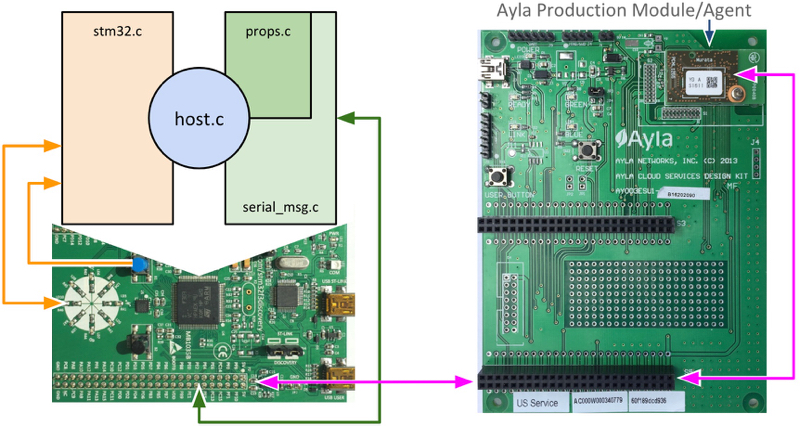
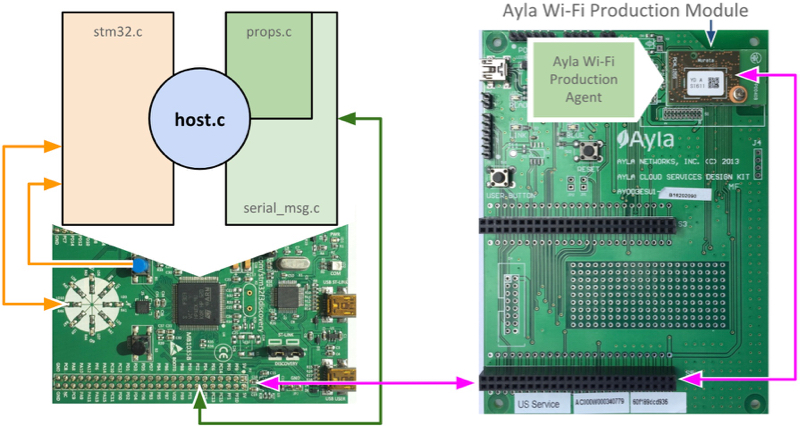
Creating first chapters for Ayla Device Kit Guide.

diff --git a/src/styles/style.css b/src/styles/style.css
@@ -93,9 +93,9 @@ a:hover {color: #0059b3;}
 
 #sidenav ul {padding-left: 0px; list-style-type: none;}
 
-#sidenav ul > li > ol {padding-left: 3px; list-style-type: "1";}
+#sidenav ul > li > ol {padding-left: 3px; /*list-style-type: "1";*/}
 #sidenav ul > li > span:hover {cursor: pointer;}
-#sidenav ul > li {margin-bottom: 12px;}
+#sidenav ul > li {margin-bottom: 9px;}
 #sidenav ul > li > ol > li {line-height: 1.8em;}
 
 #sidenav ul > li > a.active,
@@ -136,7 +136,7 @@ a:hover {color: #0059b3;}
 
 #content.home h3 {margin-top: 0px;}
 
-#content li {margin-bottom: 8px;}
+#content li {margin-bottom: 6px;}
 
 #content pre {
   background: #f2f2f2;
@@ -168,6 +168,8 @@ a:hover {color: #0059b3;}
 
 #content table .center {text-align: center;}
 
+#content .note {padding: 12px; margin: 24px 0px; background: linen;}
+
 /******************************************
  img
 ******************************************/
@@ -181,7 +183,7 @@ img.center {
 
 #content figure.figure {margin: 30px 0px;}
 
-#content img {margin-bottom: 0px;}
+#content div.image {margin: 30px 30px;}
 
 /******************************************
  media

diff --git a/layouts/glossary.html b/layouts/glossary.html
@@ -42,6 +42,7 @@
 <li id="glossary-base-type"><a href="/content/glossary/base-type.html">Base Type</a></li> 
 <li id="glossary-cloud"><a href="/content/glossary/cloud.html">Cloud</a></li>
 <li id="glossary-configuration"><a href="/content/glossary/configuration.html">Configuration</a></li>
+<li id="glossary-connectivity"><a href="/content/glossary/connectivity.html">Connectivity</a></li>
 <li id="glossary-datapoint"><a href="/content/glossary/datapoint.html">Datapoint</a></li>
 <li id="glossary-datapoint-echo"><a href="/content/glossary/datapoint-echo.html">Datapoint Echo</a></li>
 <li id="glossary-datastream"><a href="/content/glossary/datastream.html">DataStream</a></li>

diff --git a/layouts/partials/devices_sn.html b/layouts/partials/devices_sn.html
@@ -2,7 +2,8 @@
 <ul>
 <li><span>Ayla Design Kit Guide</span>
 <ol style="display:{{adk}};">
-<li id="devices-adk-overview"><a href="/content/devices/adk/overview.html">Overview</a></li>
+<li id="devices-adk-introduction"><a href="/content/devices/adk/introduction.html">Introduction</a></li>
+<li id="devices-adk-platform"><a href="/content/devices/adk/platform.html">Platform</a></li>
 <li id="devices-adk-setup"><a href="/content/devices/adk/setup.html">Setup</a></li>
 <li id="devices-adk-experiments"><a href="/content/devices/adk/experiments.html">Experiments</a></li>
 <li id="devices-adk-ide"><a href="/content/devices/adk/ide.html">IDE</a></li>

diff --git a/layouts/home.html b/layouts/home.html
@@ -41,7 +41,7 @@
 <div class="col-lg-6 col-md-6 col-sm-6 col-12">
 <h3>Feedback</h3>
 <p>Relevant comments and suggestion welcome.</p>
-<a href="https://github.com/MattAtAyla/ayla-core-content/issues"><img class="center" src="images/submit-ticket.gif" width="200"></a>
+<a href="https://github.com/MattAtAyla/ayla-core-content/issues/new"><img class="center" src="images/submit-ticket.gif" width="200"></a>
 </div>
 </div>
 </div>

diff --git a/src/content/about/index.md b/src/content/about/index.md
@@ -1,71 +1,5 @@
 ---
 title: About
 layout: about.html
-auth:
-    user: guest
-    pass: acc3000
 ---
 
-This proof-of-concept website demonstrates my belief that Ayla Networks should do the following:
-
-1. Focus on a single source of truth (this Ayla Core Content site) for information about Ayla technology.
-1. Implement it as a static website generated by [Metalsmith](http://www.metalsmith.io/) from [Markdown](https://github.github.com/gfm/) source files stored on [github](https://github.com/MattAtAyla/ayla-core-content).
-1. Tap the minds of in-house subject matter experts within natural workflows. 
-1. Establish an organizational structure and mindset around the Ayla Core Content site.
-
-## Focus on single source of truth
-
-Currently, Ayla employs one person to write and manage all product documentation. Ayla also squirrels away information in several places. A much more efficient approach is to establish one place for our guides, tutorials, references, definitions, product descriptions, diagrams, and videos, and design it so that all our experts can directly contribute to it without altering their everyday workflows.
-
-This single source of truth should be easily accessible, organized, simple, versioned, accurate, maintainable, searchable, current, concise, grammatically correct, non-redundant, uniform in style, driven by user needs, informed by user feedback, and unopposed. 
-
-All other information repositories should be deprecated including Ayla University which has the following negative impacts on the company:
-
-1. It guarantees that obsolete information will always be around to confuse our customers because it will always be unmaintainable and understaffed. A slide deck by itself is a challenge to maintain. Hundreds of slide decks are more of a challenge. Hundreds of slide decks wrapped in videos (or re-worked into Storyline technology) represent maintenance that Ayla will be unwilling to fund.
-
-1. It neither promotes nor assesses learning. Regarding the former, it is much less accessible than a simple static website. Regarding the latter, it is built on the false notion that clicks == learning, and it reinforces the delusion by requiring people to click, and then celebrating higher click counts. The promotion of learning and the assessment of learning are two different things. We should focus on the promotion of learning which starts with highly acccessible, simple, organized core content. If we need to prove to some authority that a person possesses certain Ayla knowledge and skills, we will do this with professionally designed and administered assessments. 
-
-1. It is a distraction. It drains resources away from the building of, and it diverts eyes away from the use of, core content. 
-
-## Implement a statically generated website from MD files on github
-
-Many companies use static-site generators to publish technical documentation (see [Particle](https://docs.particle.io/guide/getting-started/intro/photon/) and [Bootstrap](https://getbootstrap.com/docs/4.1/getting-started/introduction/)).  
-
-Metalsmith is one example of a static website generator. Essentially, it is a configurable data-transformation pipeline. It inputs files (e.g. Github Markdown and html templates), converts them to html, passes them through a series of [pluggable transformation modules](https://github.com/metalsmith/awesome-metalsmith/blob/master/PLUGINS.md), and outputs a static website (complete with html, css, js, and image files) which can be zipped into an archive file, uploaded to a web-hosting site, and deployed.
-
-## Tap SMEs within natural workflows
-
-One benefit of a statically generated website is that it can leverage source files (e.g. markdown) that are native to other systems. This means that engineers (who normally store markdown files on github under source control) can contribute directly to Ayla Core Content without changing normal routines, ultimately increasing productivity and accuracy. Markdown files look like this: 
-
-<pre style="font-size: 60%; width:750px; overflow:auto;">
-# Getting Started
-
-### CocoaPods
-Working with AMAP requires the use of [CocoaPods](https://cocoapods.org) 1.2.1 or higher for dependency management.
-
-If you do not already have [CocoaPods](https://cocoapods.org), you must install it first using Terminal: 
-
-```bash
-$ gem install cocoapods
-```
-
-Note: This version of AMAP now supports Cocoapods version 1.2.1 and above.
-
-```bash
-$ gem upgrade cocoapods
-```
-</pre>
-
-Another benefit is that statically generated websites are easily versioned. 
-
-## Organize around Ayla Core Content
-
-1. Establish a Department of Core Content, Training, and Certification. We will grow into the latter two.
-1. Appoint a Manager of Core Content, Training, and Certification reporting to a technical director invested in the success of the department.
-1. Create a github repo called ayla-core-content, and set it up like [this](https://github.com/MattAtAyla/ayla-core-content).
-1. Discuss (with respect to technical information) the balance between confidentiality and accessibility. Static sites are, for the most part, public.
-1. Establish a simple style guide. Users need to see both the markdown version and the html version of the guide.
-1. Discuss and establish a plan for organizing the site directory structure and data layout. 
-1. Define department job functions in terms of teaching style and data organization to engineers, and editing.
-1. Recruit SMEs to migrate data from nooks and cranies to the ayla-core-content repo.
-1. Explore and experiment with various Metalsmith data transformation modules. 

diff --git a/src/content/devices/adk/platform.md b/src/content/devices/adk/platform.md
@@ -1,0 +1,35 @@
+---
+title: Ayla Platform for Firmware Engineers
+layout: devices-adk.html
+---
+
+This chapter provides a view of the Ayla Platform from a firmware engineer's perspective. As stated, the Ayla Design Kit consists of a [STM32 Board](https://www.st.com/en/evaluation-tools/stm32f3discovery.html?sc=stm32f3discovery) representing your device, and an Ayla Board with an Ayla Wi-Fi Production Module affixed to provide cloud connectivity. It also includes a 5v USB power cable. The [Setup](/content/devices/adk/setup.html) chapter gives instructions for purchasing and registering the kit. Here is another view of the Discovery Kit:
+
+<div class="image"><img src="images/ayla-design-kit-cable.jpg" width=500></div>
+
+It's important to note that, in this guide, the STM32 board represents *any device* that you want to connect to the Ayla Cloud, any device with (1) a microcontroller (Host MCU) composed of a CPU, memory, and peripheral support functions, and (2) peripherals that send input to the MCU (e.g. Blue Button) and receive output from the MCU (e.g. LED Circle).
+
+<div class="image"><img src="images/stm32-mcu-peripherals.jpg" width=420></div>
+
+Pairing this device with an Ayla Wi-Fi Production Module is a good first step in connecting the device to the Ayla Cloud because the module runs a production-ready Ayla Software Agent designed to handle connectivity, security, and several other functions. But, pairing the device with the module is not enough. You also need to modify the application running on the Host MCU. This application is labeled host.c in the following diagram:
+
+<div class="image"><img src="images/ayla-design-kit-host-app.jpg" width=560></div>
+
+In fact, host.c is the only code you need to modify. The other three source files in the diagram, stm32.c, props.c, and serial_msg.c, are part of the Ayla host-based library. 
+The first, stm32.c, interfaces with the STM32 board, handling interrupts from the Blue Button, and writing/reading on and off states to/from the LED Circle. The other two, props.c and serial_msg.c, perform I/O via serial interface to the Ayla Production Module, the intermediary between host.c and the Ayla Cloud. 
+
+<div class="note">
+<p><strong>Note:</strong> Using an Ayla Production Module is just one way to connect a device to the Ayla Cloud. See the [Devices](/content/devices/) page for all connectivity solutions.</p>
+</div>
+
+The following diagram illustrates the Design Kit in the broader context of the Ayla Platform.
+
+<div class="image"><img src="images/ayla-platform.jpg" width=700></div>
+
+The Design Kit appears in the lower left of the diagram, with the STM32 board on the left connected via SPI or UART to the Ayla Production Module on the right. The module communicates with the Ayla Cloud via the Ayla Device Service API. The Ayla Cloud instantiates a user-defined template to create a digital twin of the real-world device. The red, blue, and green circles of the digital twin represent LEDs on the actual device, and the larger blue circle represents the Blue Button. Mobile and web apps built with libraries wrapping API calls to the Ayla Cloud Service RESTful API interact with the digital twin to query and control the device. The dotted line indicates that when an application and the device are connected to the same LAN, they can communicate directly. Finally, the Data Streaming Service (DSS) underscores the Ayla Cloud's ability to integrate with other business systems in real-time.
+
+Connecting a device to the Ayla Cloud benefits several stakeholders, and remote control is only one of the benefits. See the diagram below.
+
+<div class="image"><img src="images/ayla-platform-value.jpg" width=700></div>
+
+Depending on how consumer data is aggregated and analyzed, consumers, service technicians, retailers, and manufacturers can leverage insights to improve efficiencies and performance. 

diff --git a/src/content/devices/adk/setup.md b/src/content/devices/adk/setup.md
@@ -3,6 +3,37 @@ title: Setup
 layout: devices-adk.html
 ---
 
+This chapter shows you how to connect an off-the-shelf Ayla Design Kit to a default Ayla account. 
+
+Here are the specific goals of the chapter:
+
+<div class="image"><img src="images/sss.jpg" width=500></div>
+
+
+
+
+
+, taking into consideration that you may not have either yet, or the design kit you have is currently registered to another Ayla account, or the design kit you have is running incompatible agent and/or host firmware (from prior experimentation). In any case, by the end of this chapter you should have the following:
+
+1. A default Ayla account.
+1. An Ayla Design Kit with compatible agent/host firmware registered to your account.
+1. A USB 2.0 A-Male to Micro B cable which is included in the design kit.
+1. A FTDI TTL-232R-3V3 cable which is not included in the kit.
+1. A computer with a browser, an iOS or Android device, and access to a Wi-Fi network.
+
+In addition, you should be able to perform the following tests:
+
+<ol style="list-style-type: upper-alpha;">
+<li>When you push the Blue Button on your design kit, the Ayla Developer Portal, the Ayla OEM Dashboard, and the AMAP and Aura mobile apps sense the action. </li>
+<li>When you turn the Blue and Green LEDs on/off in DevPortal, OEMDash, AMAP, and Aura, the LEDS turn on/off on your design kit. </li>
+</ol>
+
+
+
+
+
+
+
 Note to author: The reader is in one of the several dissimilar situations listed below, and the goal of this chapter is to get all readers to the same point so that all readers can follow the instructions in the next chapter (Experiments).
 
 <table>

diff --git a/src/content/devices/adk/introduction.md b/src/content/devices/adk/introduction.md
@@ -1,0 +1,27 @@
+---
+title: Introduction to the Guide
+layout: devices-adk.html
+---
+
+This guide introduces you to the code and concepts needed to connect your device to the Ayla Cloud using an [Ayla Wi-Fi Production Module](/content/glossary/ayla-wi-fi-production-module.html).
+
+<div class="image"><img src="images/device-module-cloud.jpg" width=500></div>
+
+To do so, the guide focuses on the [Ayla Design Kit](/content/glossary/ayla-design-kit.html) which includes two circuit boards usually connected with pin heads (although the diagram shows them disconnected):
+
+1. A [STM32 Board](https://www.st.com/en/evaluation-tools/stm32f3discovery.html?sc=stm32f3discovery) representing your device.
+1. An Ayla Board with an Ayla Wi-Fi Production Module affixed.
+
+<div class="image"><img src="images/ayla-design-kit-disassembled.jpg" width=500></div>
+
+The guide is organized as follows:
+
+* Chapter 2 describes the Ayla Platform from a firmware engineer's point of view.
+* Chapters 3 and 4 show how to set up and test the Design Kit from an end-user's point of view.
+* Chapters 5 - 15 focus on modifying various versions of the Host MCU application (written in C).
+* Chapter 16 demonstrates how to migrate a Design Kit from a default Ayla account to an OEM account.
+* Chapter 17 shows how to port a host application from the STM32 board to other hardware. 
+
+The guide will show you how to use the following tools:
+
+<div class="image"><img src="images/tools.jpg" width=540></div>

diff --git a/src/content/glossary/connectivity.md b/src/content/glossary/connectivity.md
@@ -1,0 +1,12 @@
+---
+title: Connectivity
+layout: glossary.html
+---
+
+Ayla provides three approaches to connecting devices to the cloud:
+
+<div class="image"><img class="figure-img" src="images/ayla-approaches-to-connectivity.jpg" width=500></div>
+
+1. **Ayla Production Module/Agent**. The device is physically connected (via SPI or UART) to an Ayla Production Module running Ayla Production Agent firmware, the MCU host application (host.c) is modified, and then it is linked to an Ayla library that knows how to talk to the module/agent.
+1. **Ayla Integrated Agent**. The Host MCU application on the device is linked directly with an Ayla Software Agent.
+1. **Ayla Gateway Agent**. The device is connected (often with other devices) to an Ayla Gateway Agent.

diff --git a/src/content/devices/adk/experiments.md b/src/content/devices/adk/experiments.md
@@ -3,11 +3,8 @@ title: Experiments
 layout: devices-adk.html
 ---
 
-# Installing serial drivers
+# Accessing the module via CLI
 
-# Accessing the module with CLI
+# Updating firmware
 
-# Updating the Ayla Agent firmware
-
-# Updating the host application
-
+# Testing features

diff --git a/src/index.md b/src/index.md
@@ -2,8 +2,8 @@
 title: Home
 layout: home.html
 auth:
-    user: guest
-    pass: acc3000
+    user: matt
+    pass: Ayla3000
 ---
 
 
